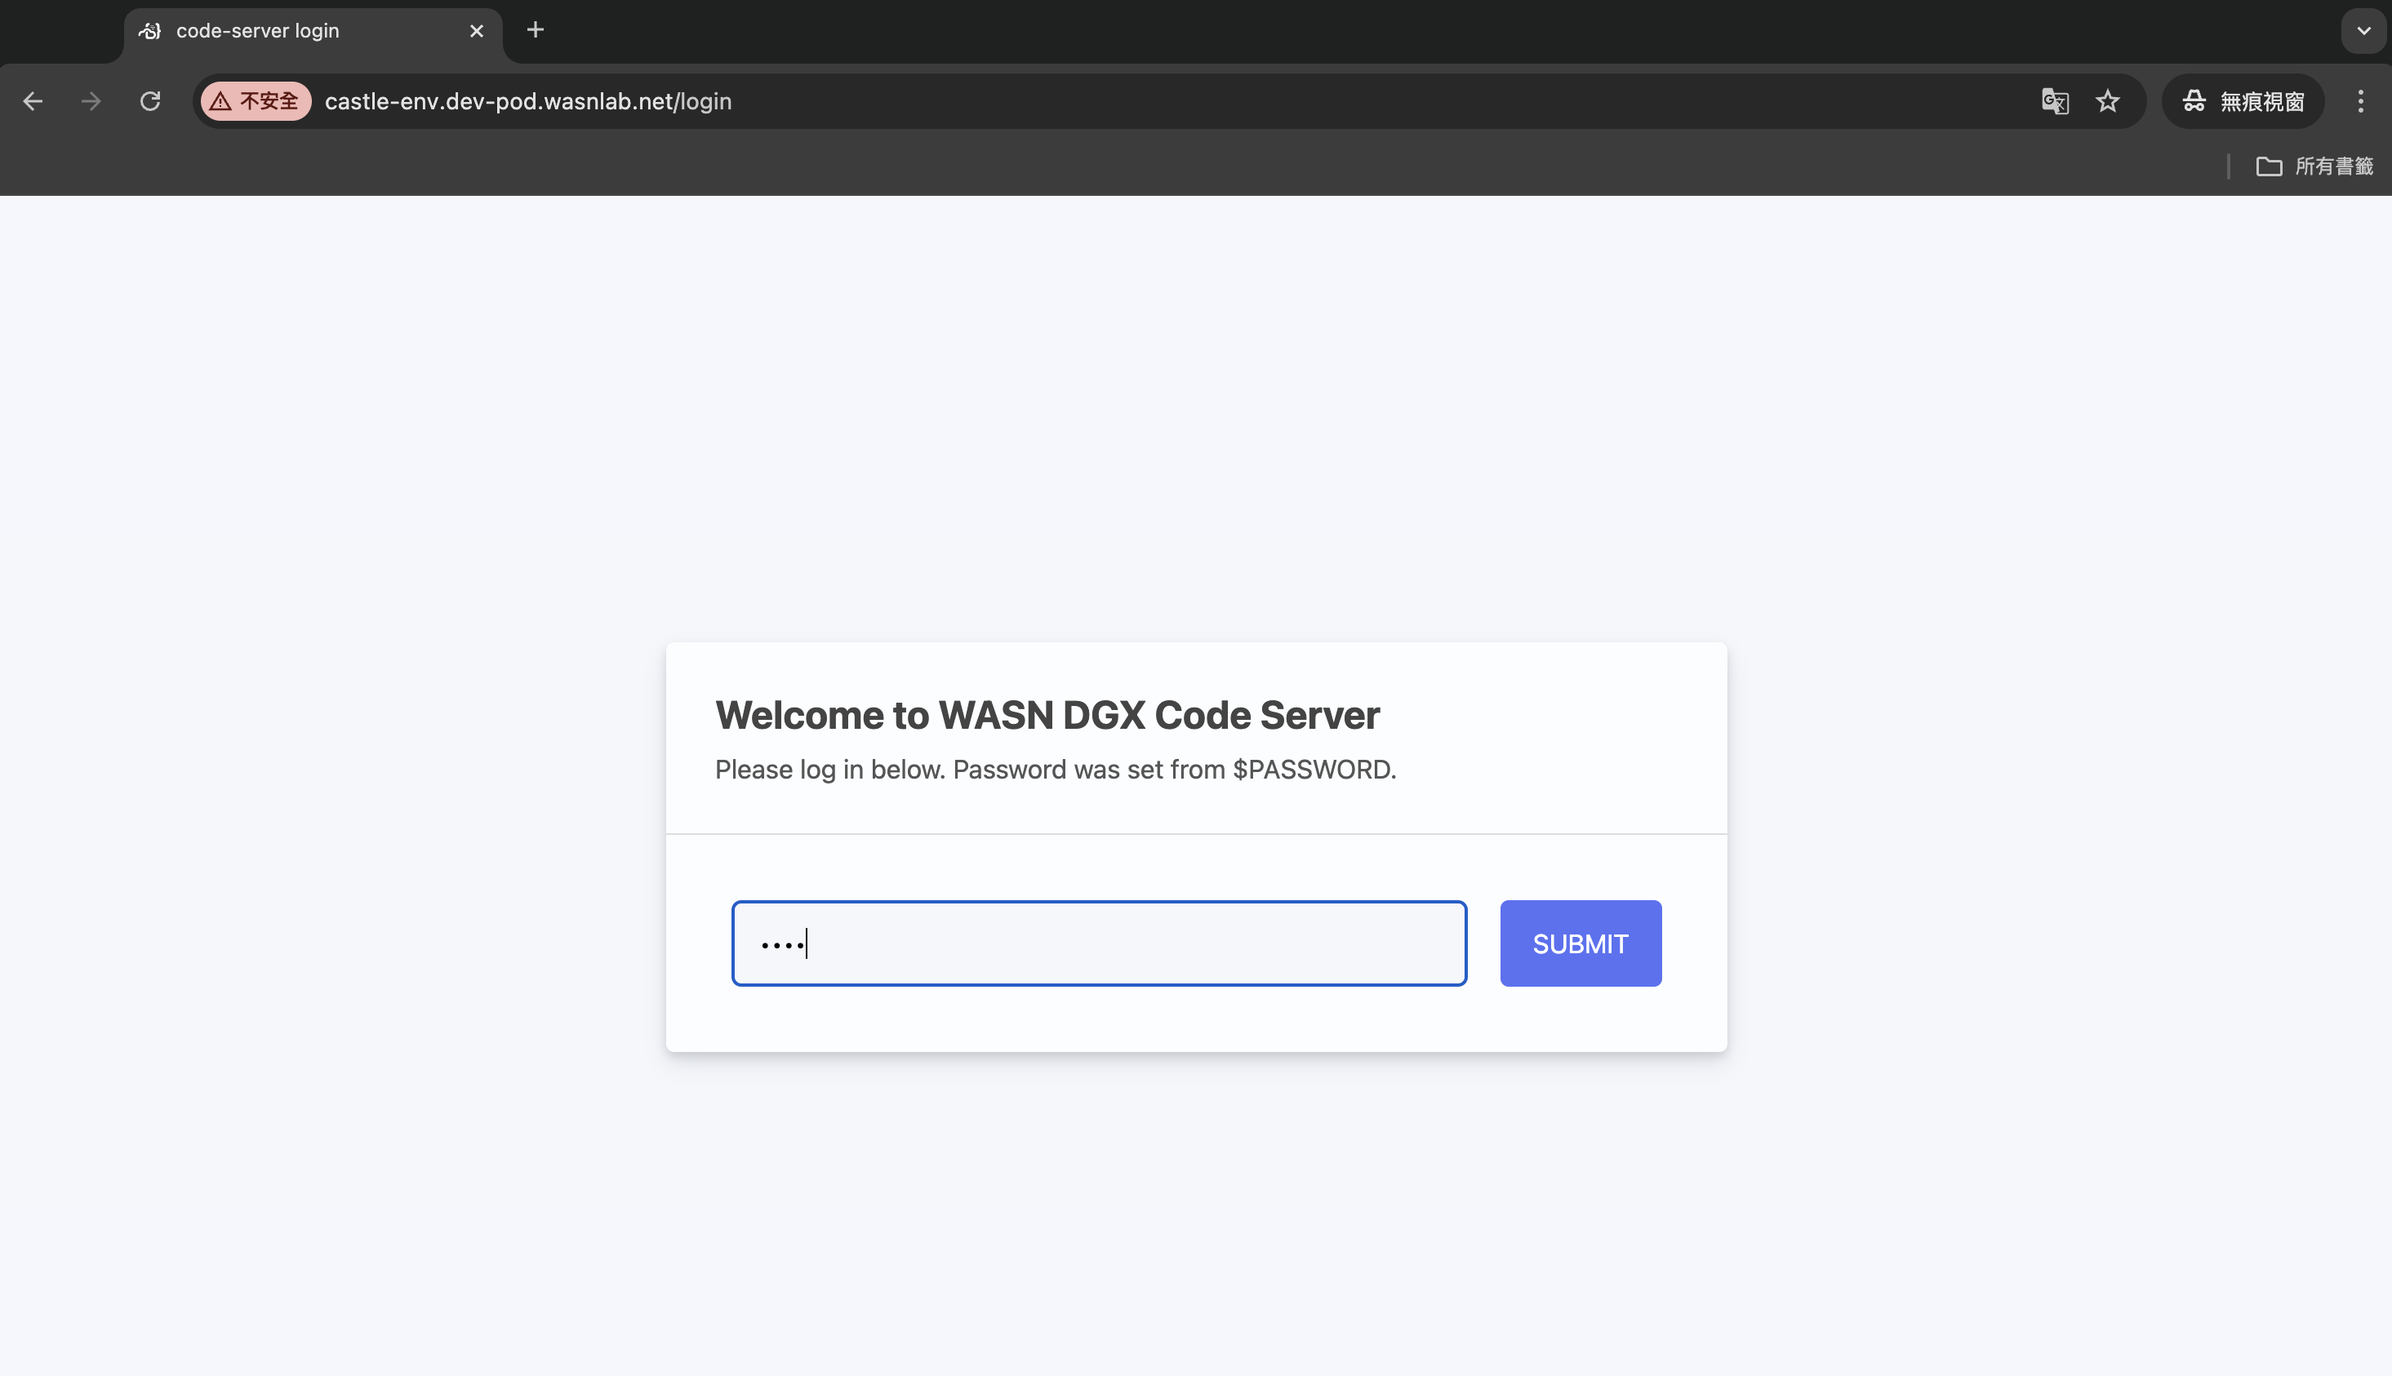
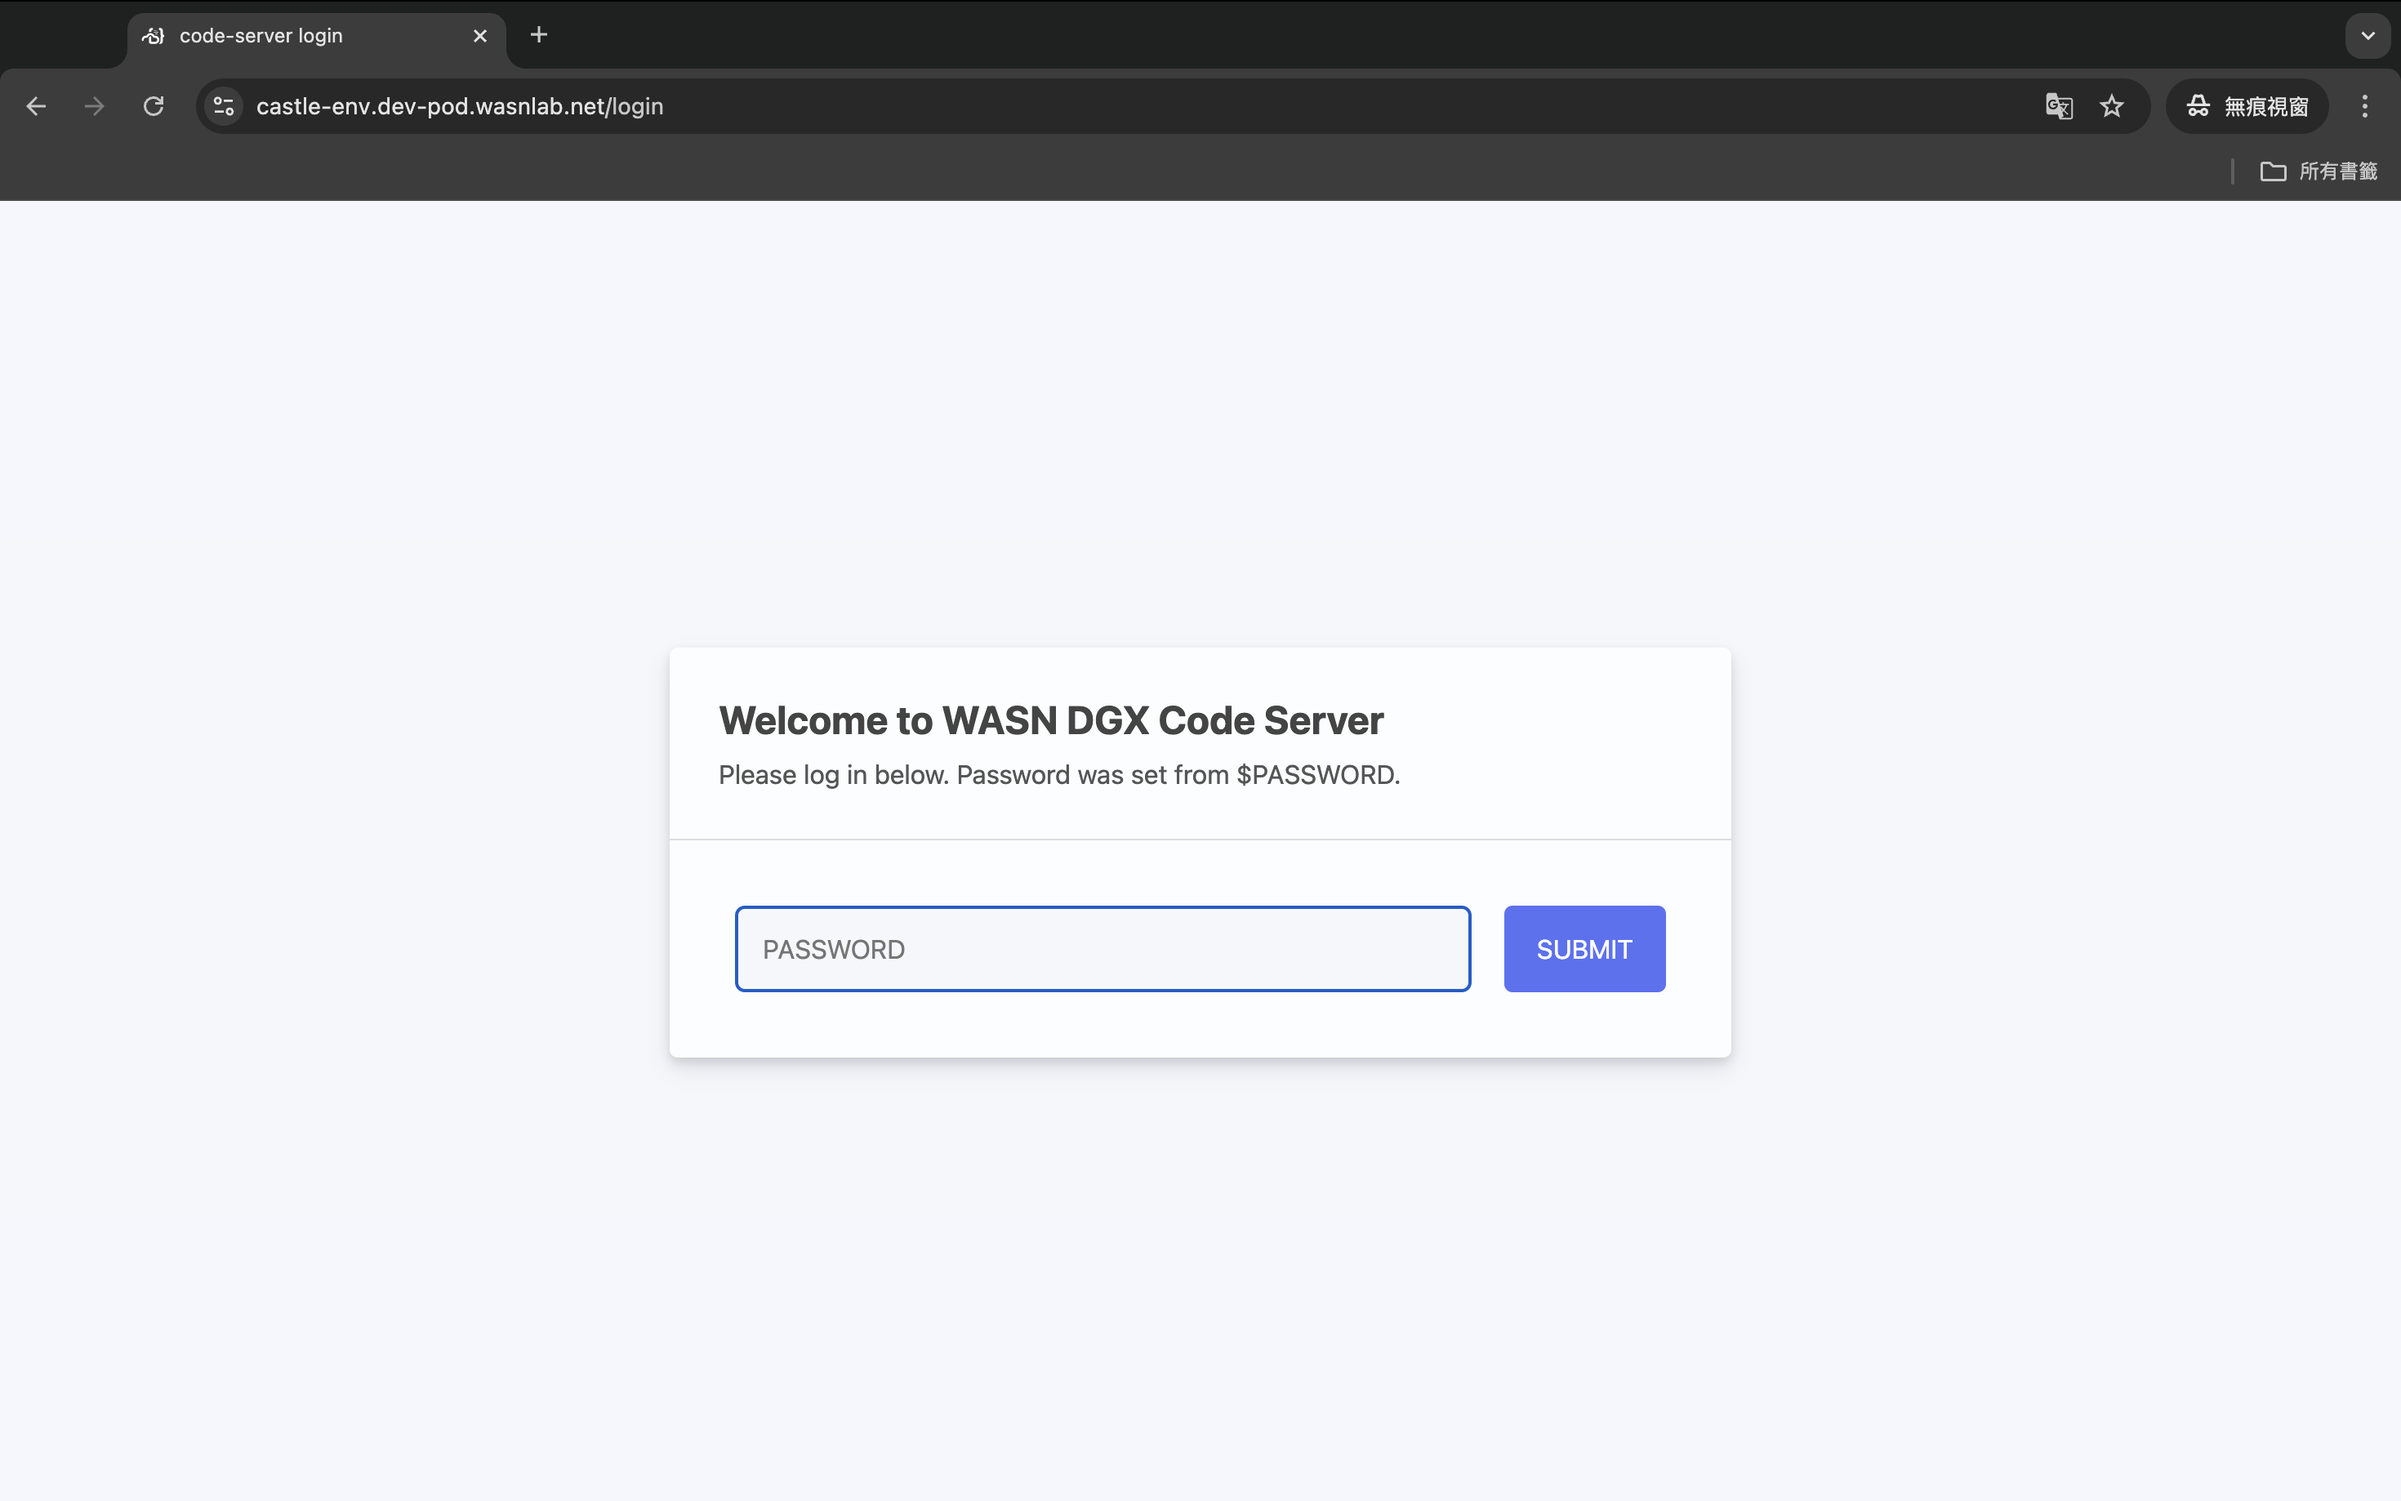
📝Fix README and env URL with HTTPs

diff --git a/README.md b/README.md
@@ -1,23 +1,26 @@
-# Dev Pod
+# DGX Dev Pod
+[![See latest](https://img.shields.io/static/v1?label=Docs&message=see%20latest&color=blue)](https://github.com/wasn-lab/DGX_Dev_Pod/blob/main/README.md)
+### 隨開即用的開發環境
+![](./docs/assets/start-using.png)
 
-## 隨開即用的開發環境
-![](./docs/assets/welcome.png)
+## What is DGX Dev Pod?
+The DGX Dev Pod is a platform that allows WASN students to dynamically create development environments base on Kubernetes Pod. It utilizes [ArgoCD](https://argo-cd.readthedocs.io/en/stable/) in conjunction with [Helm](https://helm.sh/) to establish an automated deployment flow. Students simply create their own configuration file, and ArgoCD will quickly set up a development environment that includes a [code-server](https://github.com/coder/code-server) based on the Docker image specified in the file.
+## Getting started
+### Prerequisite
+- 為了資安考量，這個系統目前只允許內網存取。請先連線至WASN實驗室內網
+    - 你可以也透過實驗室VPN或連接WASN實驗室的Wifi
 
-## Prerequisite
-- 請先連線至WASN實驗室內網
-    - 透過VPN或連線至WASN實驗室的Wifi
-
-## 📝創建你的環境設定檔
+### 📝Creating Configuration File
 - 請至DGX_Dev_Pod專案中的[env-configs/](/env-configs/)建立一份屬於你的環境設定檔
     - 為你自己的環境命名，例如：`castle-env`，我就創建檔案：`castle-env.yaml`
-    - 你可以直接複製以下模板，並填入你的namespace、你需要使用的docker image名稱
+    - 你可以直接複製以下模板，並填入你的namespace、你需要使用的docker image名稱以及是否要使用GPU
       - ```
         # 你的名字
         createdBy: castle.cheng
         #-----------------------------
 
         # 請為你的kubernetes的namespace命名，用來分隔不同使用者的環境，這個名稱也會用於創建屬於你的domain name網址
-        # 例如: cc-env 你的環境就會是 https://cc-env.dev-pod.wasnlab.net
+        # 例如: castle-env 你的環境就會是 https://castle-env.dev-pod.wasnlab.net
         namespace: castle-env
 
         # 填入你開發環境內要使用的Docker image，需要填寫完整docker image name跟tag
@@ -27,18 +30,27 @@
         # 是否要使用GPU
         gpu_enabled: false
 
-## ☕等待建立環境
+        ```
+
+- 你可以直接在GitHub頁面上建立檔案，或是你將這個專案clone到你的電腦，再透過Git將你新建的設定檔推送到這個repositoy的main branch上
+
+### ☕Waiting for Deployment
 - 建立好你的環境設定檔之後，等待3~5分鐘你專屬的環境就會建立完成
     - 這段時間會由[ArgoCD](https://argo-cd.readthedocs.io/en/stable/)讀取你剛剛建立的設定檔，並且透過[Helm](https://helm.sh/)在DGX的kubernetes cluster上創建你的namespace並下載你所需要的docker image，最後啟動[code-server](https://github.com/coder/code-server)，你就能透過瀏覽器直接連線到container內開發！
-## 🎉開始使用
+### 📊Monitoring ArgoCD Deployment
+- 你也能透過GitHub登入ArgoCD的儀表板：https://argocd.dev-pod.wasnlab.net/ 確認你的環境是否成功建立或遇到任何錯誤訊息
+    - 你能在這裡找到你的環境，用以確認所有Kubernetes元件的部署情況以及Pod的log
+    - 命名規則是：`env-config-<你的namespace>`
+    - ![argocd](./docs/assets/argocd.png)
+    - ![argocd-env](./docs/assets/argocd-env.png)
+
+### 🎉Start Using
 - 請在瀏覽器輸入：`https://<你的環境名稱>.dev-pod.wasnlab.net`
-    - `<你的環境名稱>`請換成你填寫在yaml檔裡`namespace`欄位的值（例如我的環境名稱是castle-env，那我的網址就是`https://cc-env.dev-pod.wasnlab.net`）
-    - 由於現在我們還沒有使用HTTPS憑證，因此瀏覽器會顯示不安全（未來會加上憑證QQ）
-    - ![截圖 2024-10-27 下午11.26.00](./docs/assets/castle-env-url.png)
+    - `<你的環境名稱>`請換成你填寫在yaml檔裡`namespace`欄位的值（例如我的環境名稱是`castle-env`，那我的網址就是`https://castle-env.dev-pod.wasnlab.net`）
 - 輸入密碼：`wasn`
     - ![截圖 2024-10-27 下午11.26.10](./docs/assets/login-code-server.png)
-- 開始使用！
+- 歡迎！
     - ![start-using-code-server](./docs/assets/start-using.png)
-## 📊監控ArgoCD部署情況
-- 透過ArgoCD的儀表板：https://argocd.dev-pod.wasnlab.net/
-    - ![argocd](./docs/assets/argocd.png)
+
+### ⚠ Note
+ - 這邊建立的開發環境是暫時的，將資料存放在`/home/code-server`預設目錄底下才會被妥善的保存在NAS上，其餘環境例如：python套件安裝將會在Pod被重新建立時消失。 Pod可能會在你更改設定檔中的docker image時、或GPU的設定有改動時重建，因此強烈建議使用requirements.txt, [Poetry](https://python-poetry.org/)或其他套件管理工具來確保你開發所需要的套件是固定的
